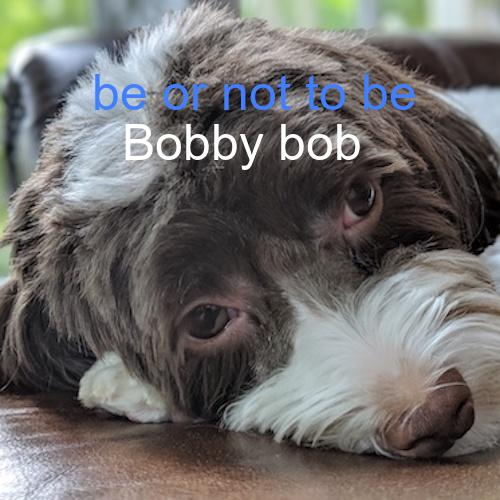
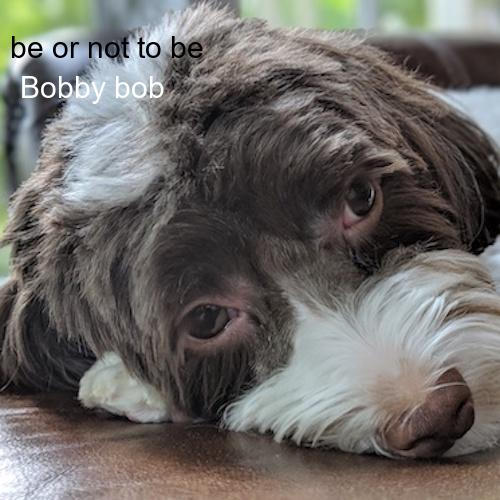
make the code simpler

diff --git a/src/memeEngine/memeEngine.py b/src/memeEngine/memeEngine.py
@@ -44,27 +44,15 @@ class MemeEngine:
 
         """ add text to the image """
         im = ImageDraw.Draw(self.img)
-        x = self.rand_x
-        y = self.rand_y
-        im.text((x, y), text, font=ImageFont.truetype('arial.ttf', 50),
-                fill=(self.rand_val, self.rand_val, 255))
+        font = ImageFont.truetype('arial.ttf', size=30)
+        im.text((10, 30), text, font=font, fill=(0, 0, 0))
 
-        im.text((x + 30, y + 50), author, font=ImageFont.truetype('arial.ttf', 50),
-                fill=(255, 255, 255))
+        im.text((20, 70), author, font=font, fill=(255, 255, 255))
 
         self.img.save(self.path_of_saved_image)
 
         return self.path_of_saved_image
 
-    """ this property function is to choose a random x value for the text """
-    @property
-    def rand_x(self):
-        return random.randint(0, self.width/2)
-
-    """ random y value """
-    @property
-    def rand_y(self):
-        return random.randint(0, self.height/2)
 
     @property
     def rand_val(self):

diff --git a/README.md b/README.md
@@ -3,16 +3,32 @@ This is the second project of mine to grauate the second course in **UDACITY** N
 The source code read text from different file exensions such as pdf, txt and docx files. The reading of file extensions is done using abstraction and polygamy programming concepts.
 
 
-## Working Environment
+## Project Overview
 - This project was developed on Widows 10
 - The user should have a python 3.x on Desktop and add it to PATH variable as described [here](https://www.educative.io/answers/how-to-add-python-to-path-variable-in-windows)
 - clone the project as follows  
 ```git clone https://github.com/abdulkarim723/Udacity-Second-Project-Meme-Generator.git```  
-
-## Project Overview
 - install project requirements as follows  
 ```pip install -r requirements.txt```
+## Create Meme from Terminal
 - One can create meme using the terminal where the user can determine the path of the photo, the quote and the author from terminal as follows  
 ```pythone.exe meme.py --path ./_data/photos/dog/xander_1.jpg --body "be or not to be" --author "Bobby bob"```  
-one should have something like this  
+- One should have something like this  
 ![Xander Image](src/xander_1.jpg)
+## Run the Project from Flask Framework
+- From project src run the following command
+```python.exe app.py```  
+one should have something like that  
+```
+ * Serving Flask app 'app'                                                                                                                                                                                          
+ * Debug mode: off                                                                                                                                                                                                 
+ WARNING: This is a development server. Do not use it in a production deployment. Use a production WSGI server instead.                                                                                              
+ * Running on http://127.0.0.1:5000                                                                                                                                                                                
+ Press CTRL+C to quit 
+```
+- Open an internet browser and enter the folllowing url link  
+```http://127.0.0.1:5000/```  
+- One should see sothing similar to the following  
+![web Image](src/html.png)
+- You can use the button **random** to create random memes
+
